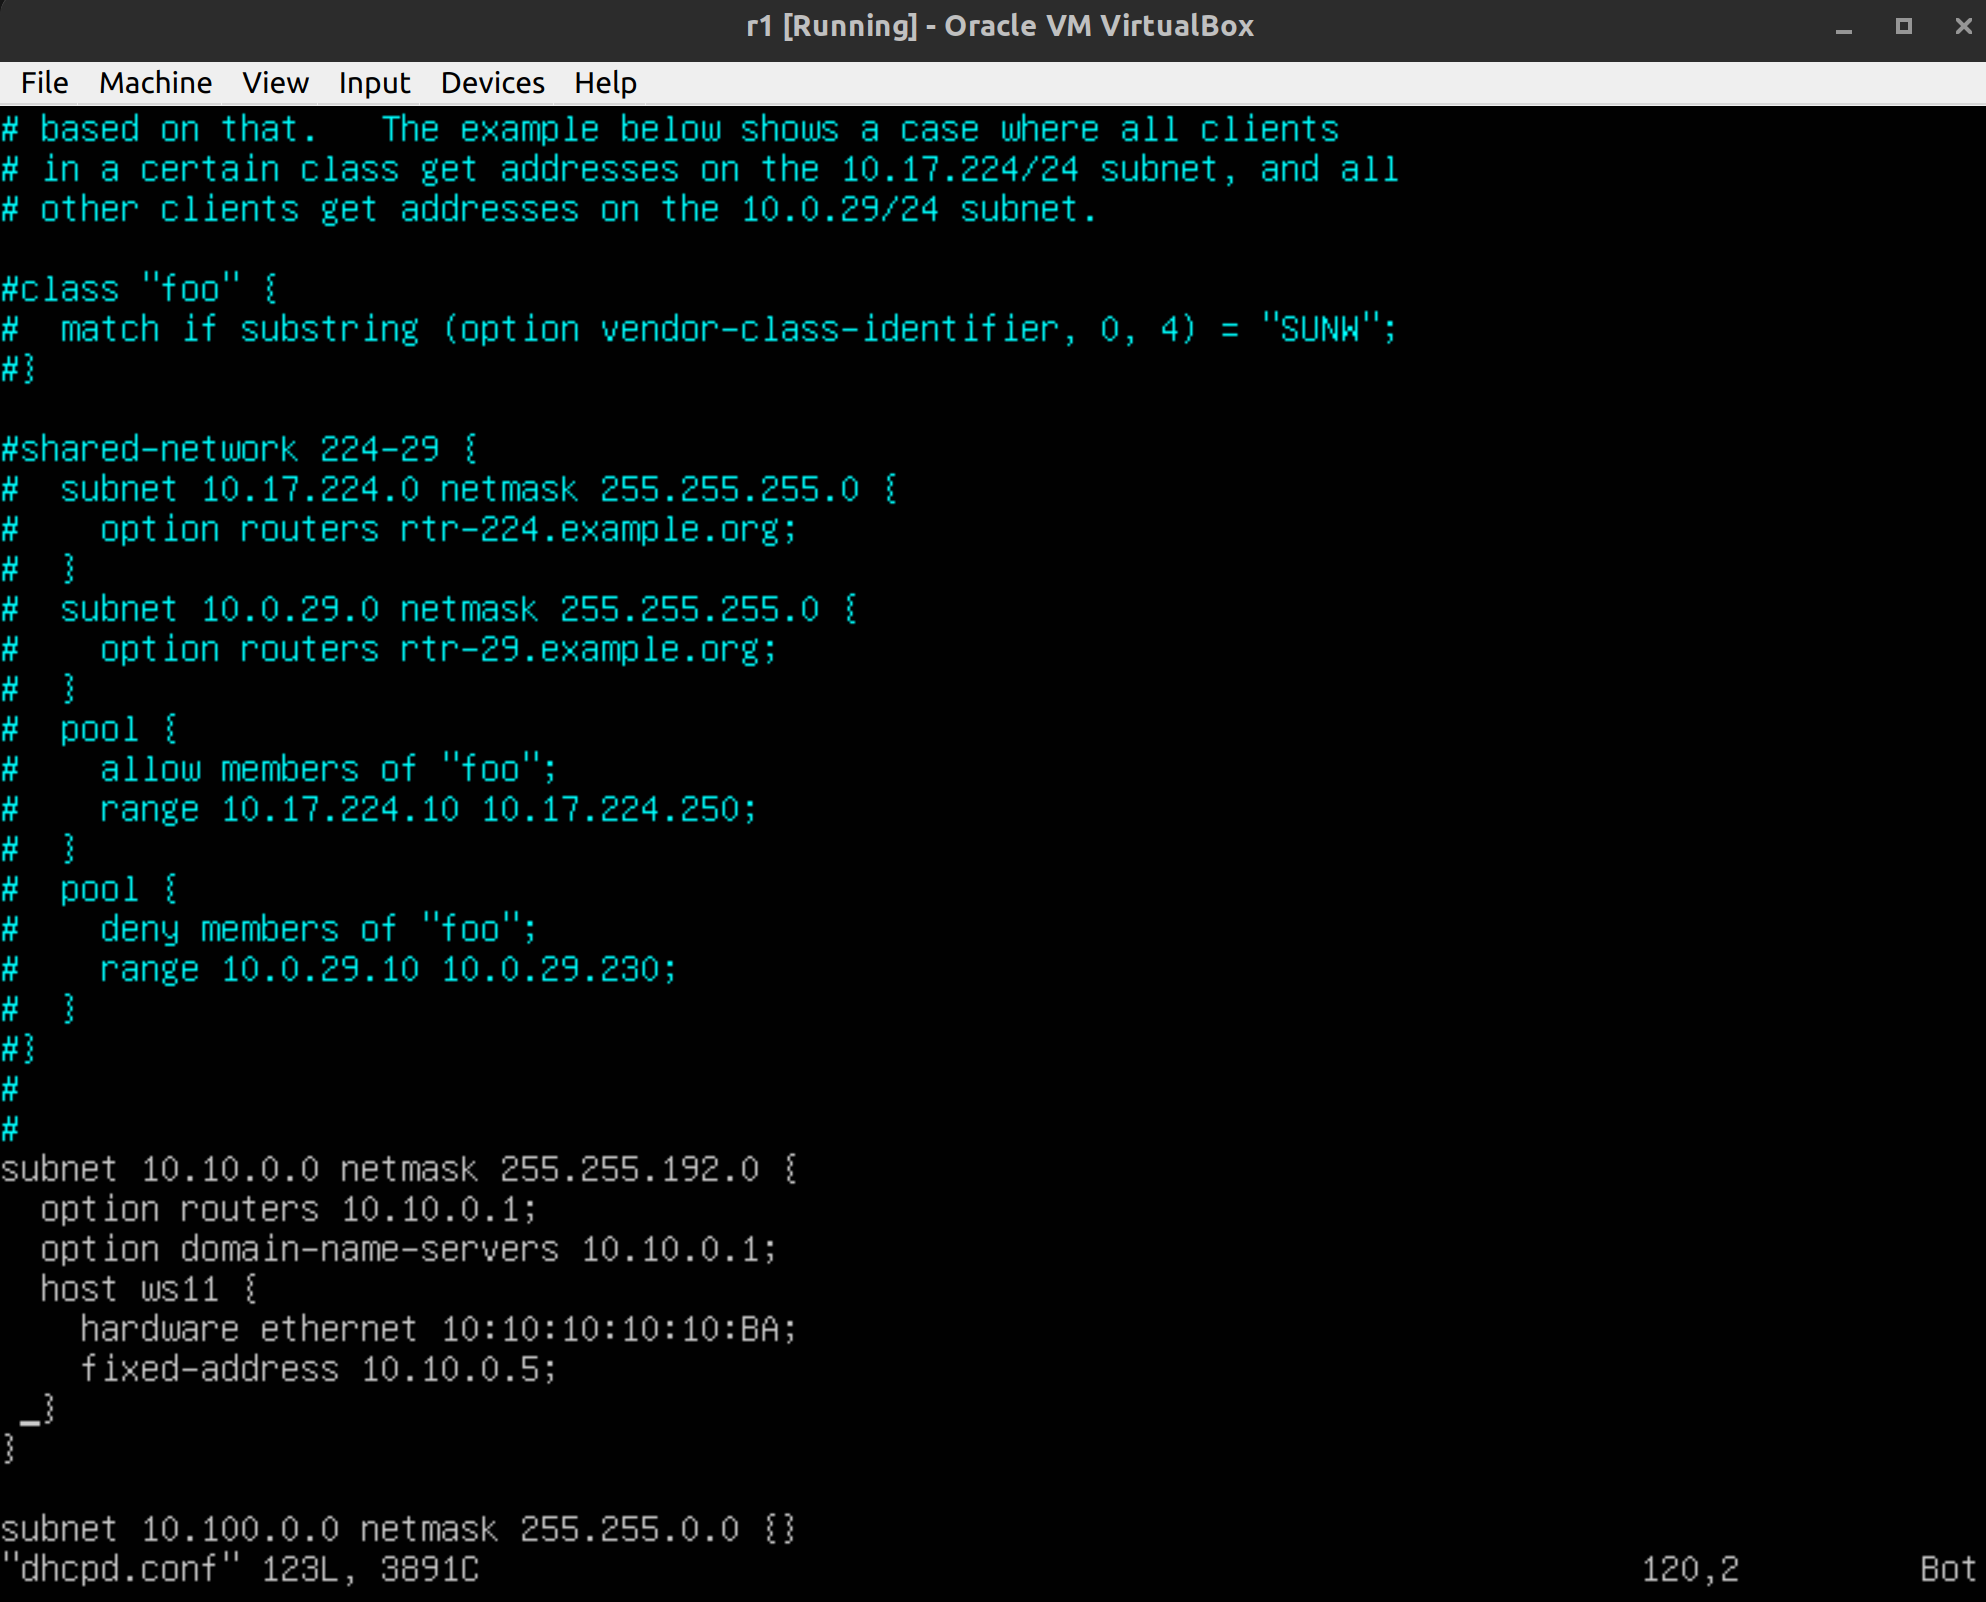
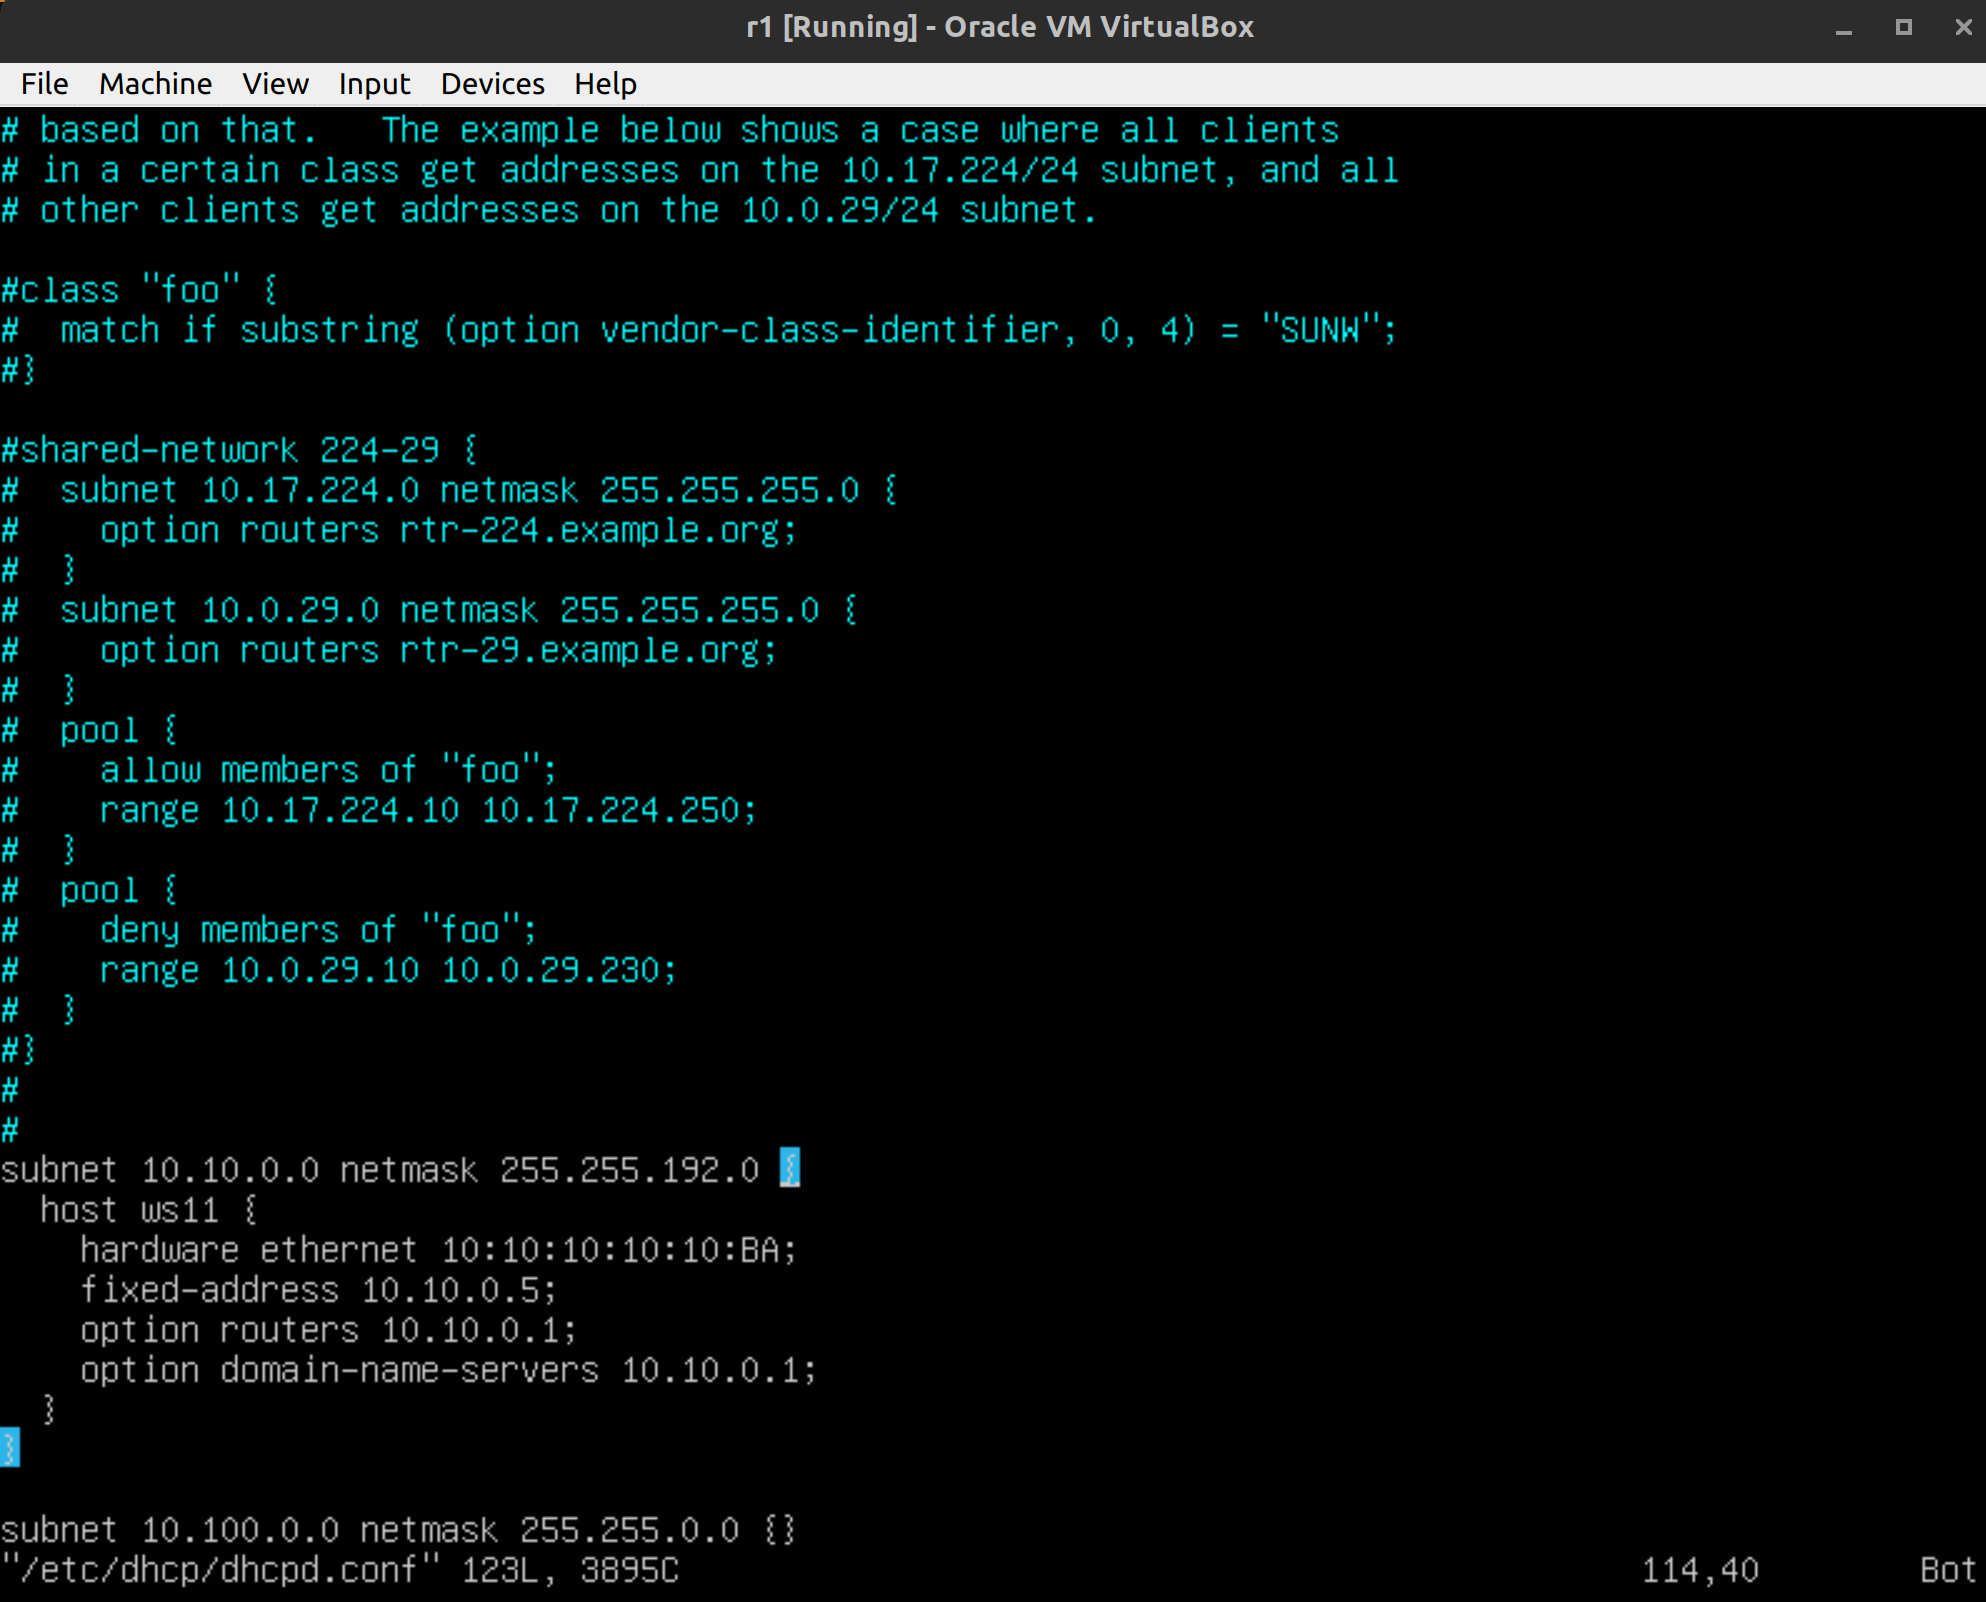
6th done

diff --git a/src/README.md b/src/README.md
@@ -278,5 +278,12 @@ vim /etc/dhcp/dhcpd.conf
 
 #### ПОСЛЕ ТОГО КАК РУКАМИ ПОМЕНЯЛИ МАК АДРЕС В КОНФИГАХ НАДО ЕГО ПРОПИСАТЬ В НАСТРОЙКАХ ВИРТУАЛЬНОЙ МАШИНЫ, ИНАЧЕ ОНА НЕ ЗАГРУЗИТСЯ❤
 
+Тесты на видимость в локальной сети работают, но доступ в интернет роутеры не выдают. Если переписать приоритет дефолтных шлюзов, можно поднять адаптер nat, но тогда пропадет локальная сеть. Вообще DNS сервер в файле resolv.conf не имеет смысла, тк файл переписывается каждый раз когда происходит рестарт dhcp.
+
+Чекнуть [видос](https://www.youtube.com/watch?v=HDpCo7DvsgY)
+
+**Запросить с ws21 обновление ip адреса**
+
+![task_6_8](./screens/6.8.png)
 
 
